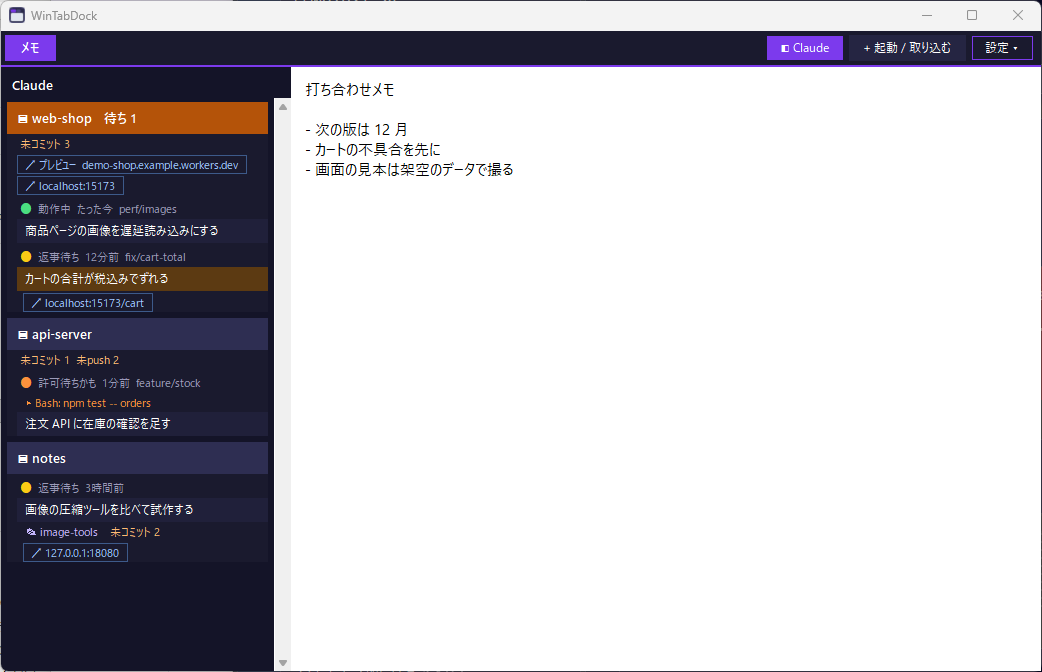
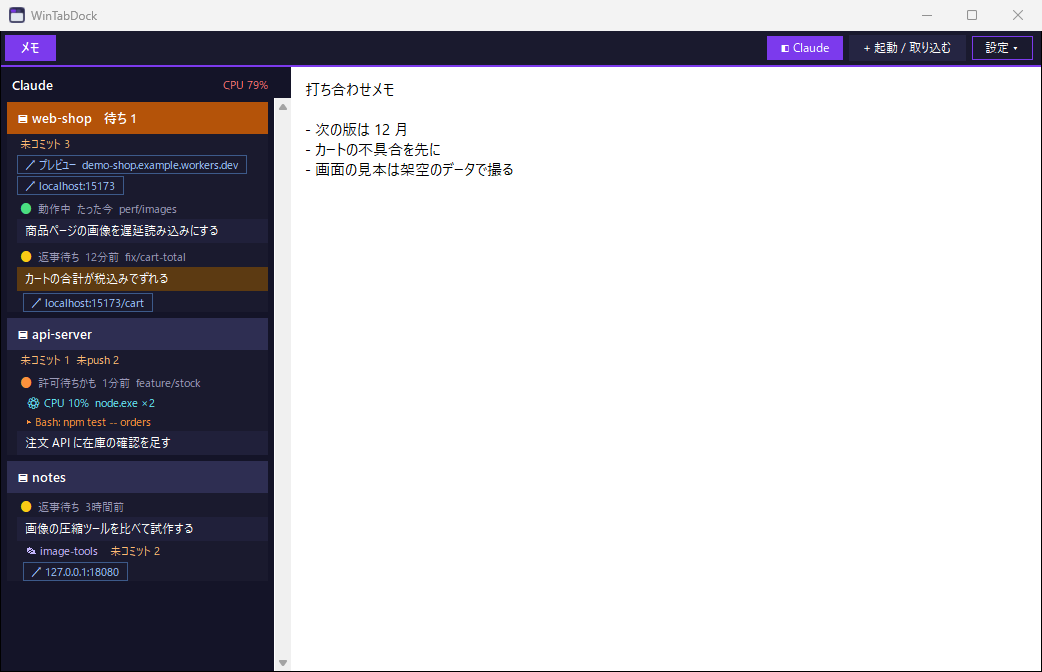
README: retake the Claude panel screenshot with the CPU line
- demo/shoot_claude.py: a stand-in claude.exe (listed in the fake
  ~/.claude/sessions) runs two node busy loops so a session shows CPU
- Draw the dock and the adopted window with PrintWindow and composite
  them instead of grabbing the screen: a screen grab picked up whatever
  of the user's windows was on top
- Keep the "busy" session's log fresh while waiting for the CPU sample

diff --git a/README.md b/README.md
@@ -39,7 +39,7 @@ exe = "C:/Tools/MyTool/MyTool.exe"
 
 VS Code で Claude Code を使っているときに、どの窓で何をしているかを一望する欄です。帯の「◧ Claude」で出す・しまう。
 
-![Claude の欄。VS Code の窓ごとにセッションの状態・やり残し・見る URL が並ぶ (架空のデータ)](docs/images/claude-panel.png)
+![Claude の欄。VS Code の窓ごとにセッションの状態・CPU・やり残し・見る URL が並ぶ (架空のデータ)](docs/images/claude-panel.png)
 
 Claude Code の拡張を使っている (`~/.claude/ide` がある) ときだけ、最初から出ています。
 欄は左に幅 290px を取るので、そのぶんツールを置く場所が狭くなります。ドックを狭くすると、最小の幅のあるツールは
